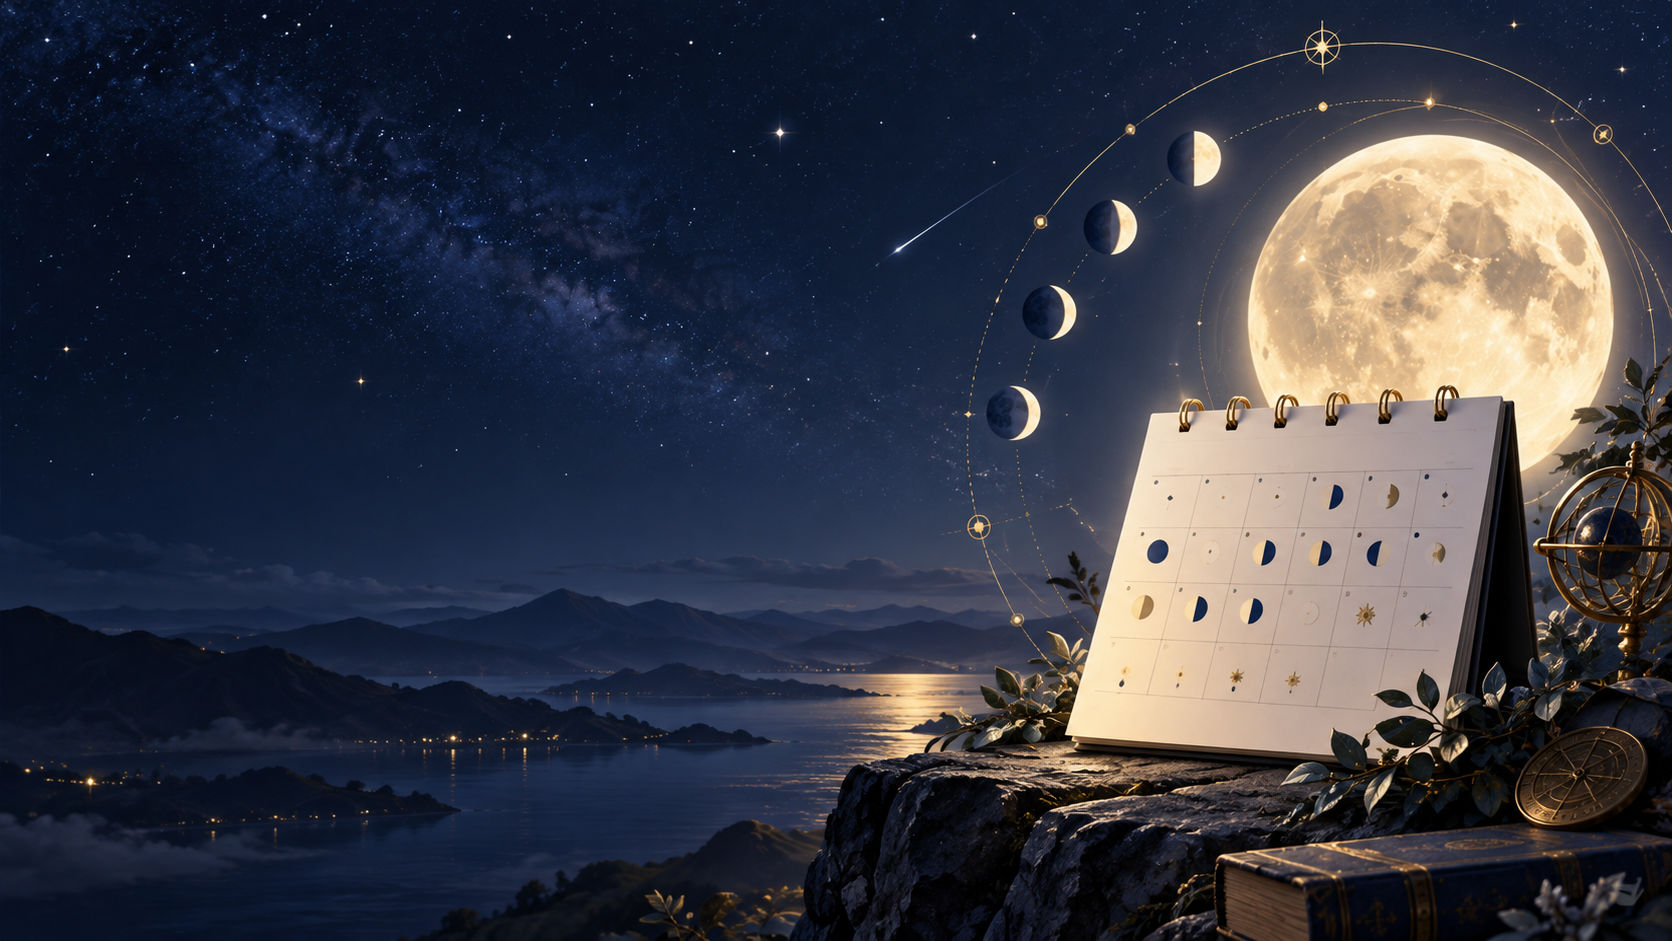
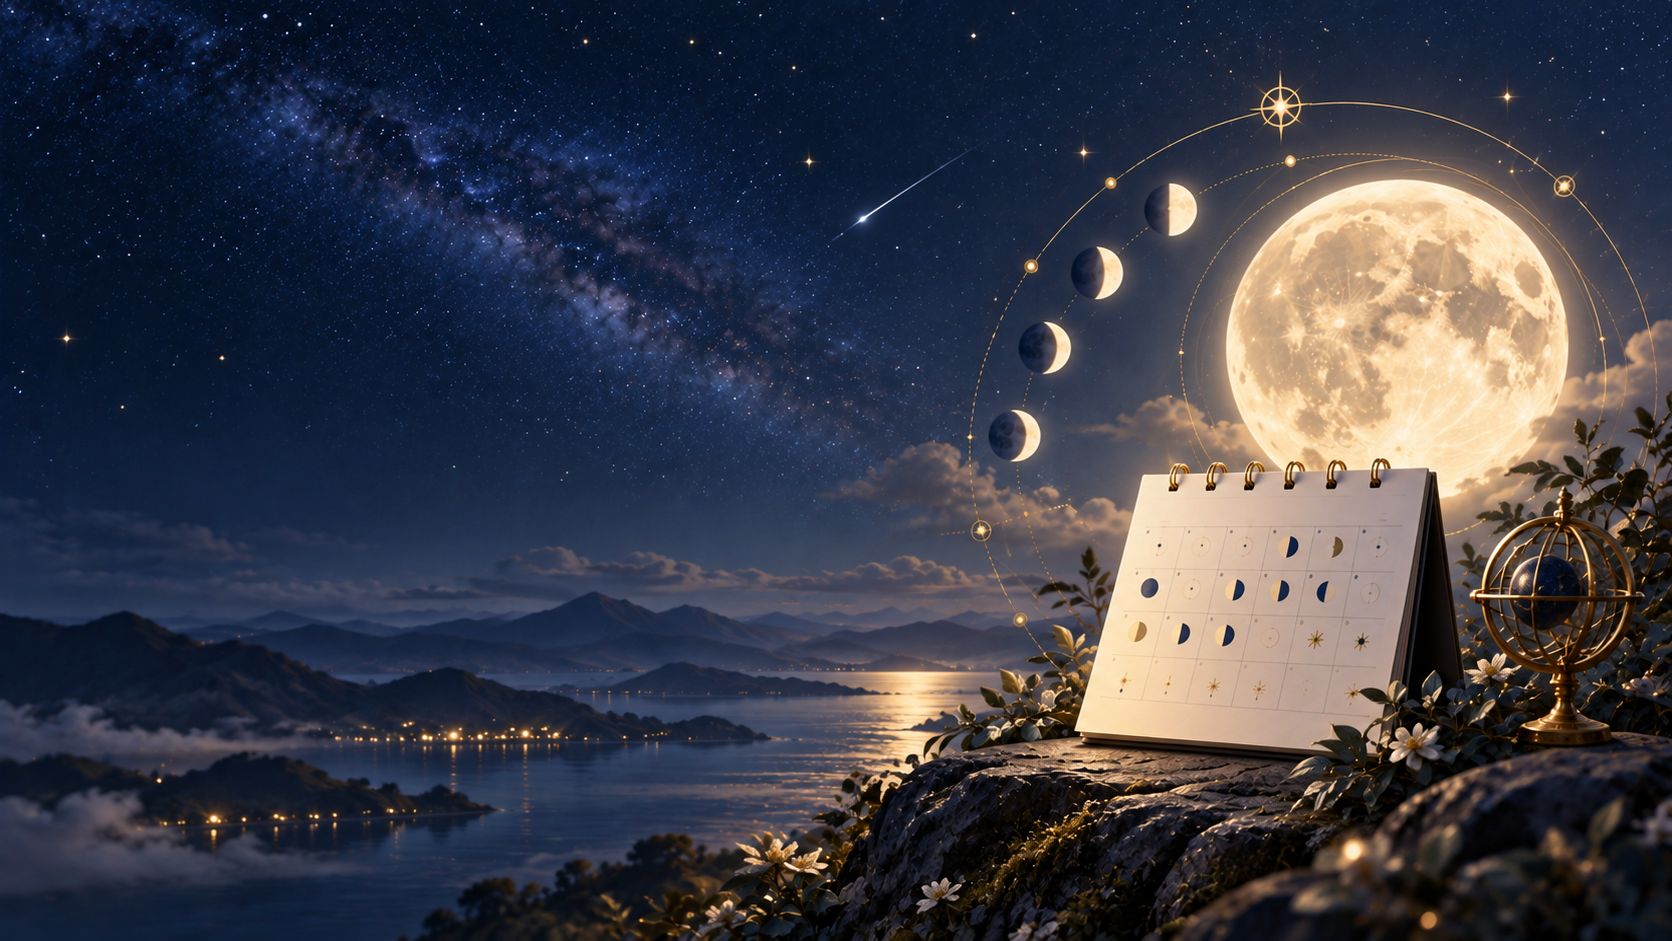
Fix tool search initialization and age table hero

diff --git a/assets/css/styles.css b/assets/css/styles.css
@@ -65,6 +65,13 @@
   font-size: 1.08rem;
 }
 
+/* Give the Age Table hero a softer frame and enough breathing room for the
+   Korean title when the calendar artwork sits behind it. */
+body[data-page-tool="age-table"] .independent-tool-hero {
+  padding-inline: clamp(1.35rem, 4vw, 4rem);
+  border-radius: clamp(20px, 3vw, 34px);
+}
+
 .independent-tool-facts {
   display: grid;
   gap: 0.65rem;

diff --git a/assets/js/tool-catalog.js b/assets/js/tool-catalog.js
@@ -306,6 +306,7 @@
       const category = element.dataset.categoryCount;
       element.textContent = String(category === "all" ? visibleTools.length : visibleTools.filter((tool) => tool[0] === category).length);
     });
+    window.dispatchEvent(new CustomEvent("solforge:tool-catalog-ready"));
   }
 
   function iconClass(category) {

diff --git a/assets/js/app.js b/assets/js/app.js
@@ -356,6 +356,9 @@
           input.focus();
         }
       });
+      if (form && !cards.length) {
+        window.addEventListener("solforge:tool-catalog-ready", initToolFinder, { once: true });
+      }
       return;
     }
 
